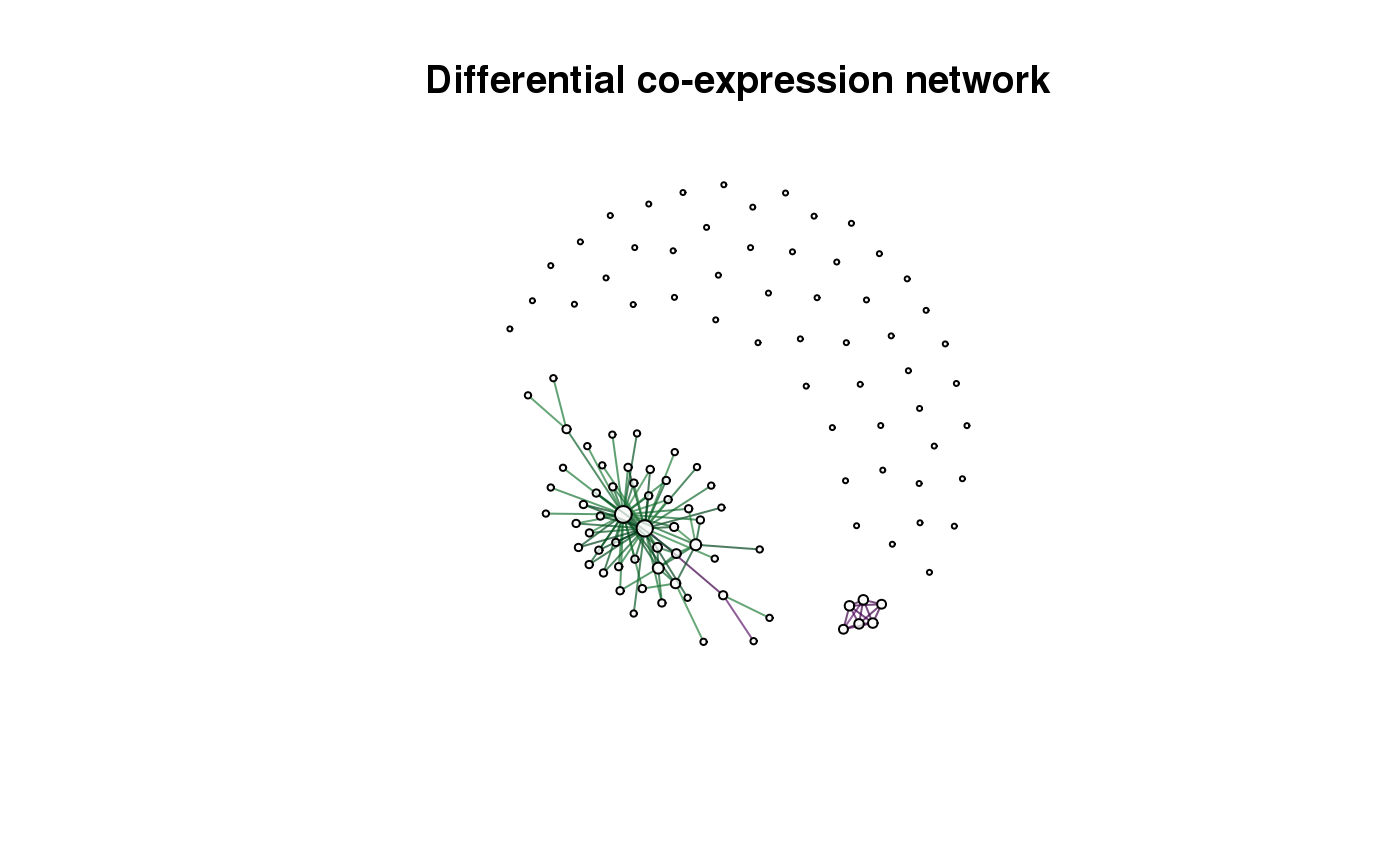
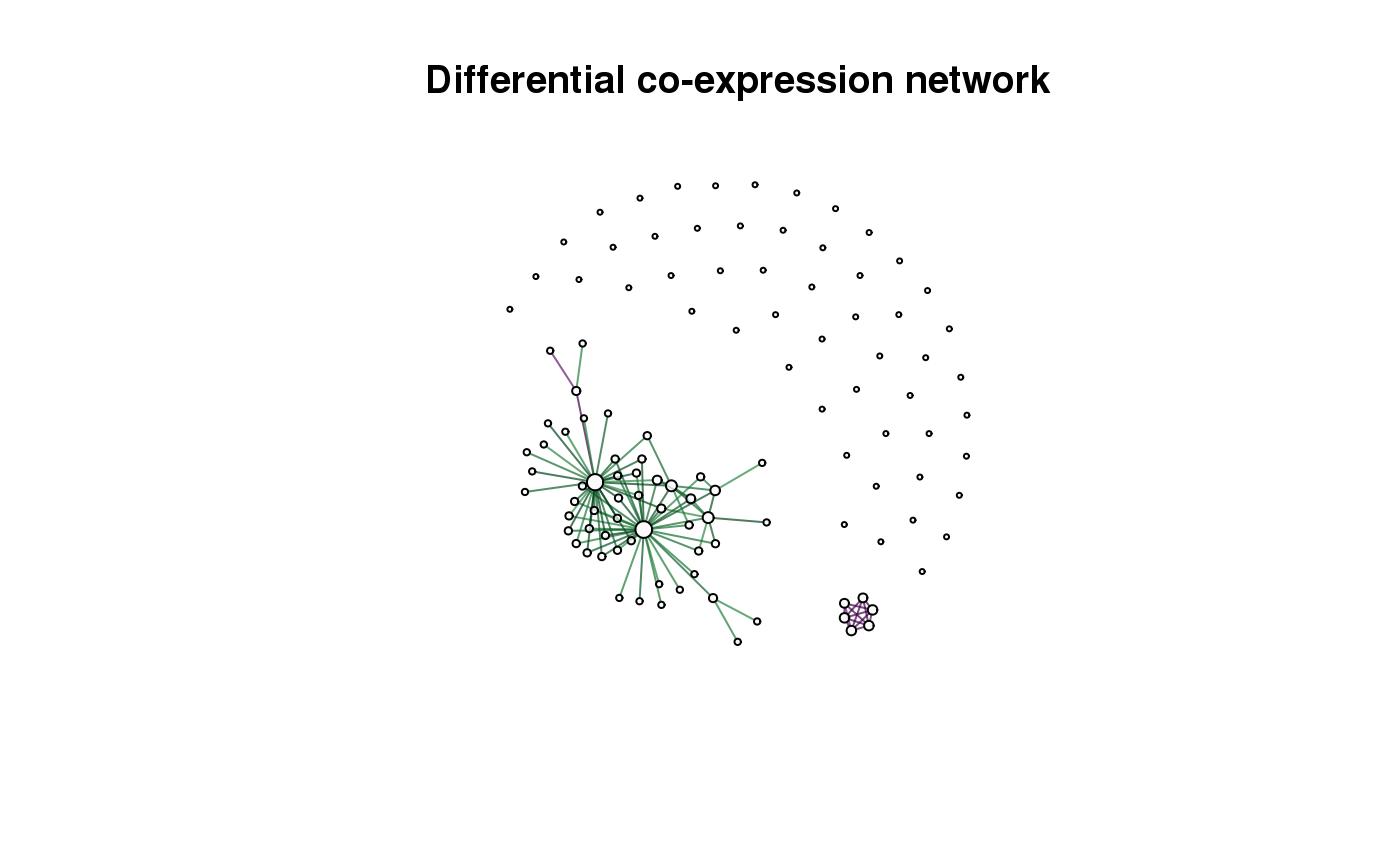
updated readme file

Changed region(s): [[0.3686, 0.437, 0.5529, 0.7491], [0.5836, 0.6867, 0.645, 0.7491]]

diff --git a/README.md b/README.md
@@ -3,7 +3,7 @@
 dcanr: Differential co-expression/association network analysis
 ==============================================================
 
-Application and evaluation of methods to infer differential co-expression/associations. An evaluation framework for testing differential co-expression methods in R. Simulated expression data with differential associations is used to assess inference methods. The package provides methods to evaluate inference methods and visualise predictions. Inference methods without implementations have been added to the package along with interfaces to existing implementations to enable ease of application and evaluations.
+Methods and an evaluation framework for the inference of differential co-expression/association networks.
 
 Installation
 ------------
@@ -47,3 +47,5 @@ plot(dcnet, vertex.label = '', main = 'Differential co-expression network')
 ```
 
 ![](README-example-1.png)
+
+Edges in the differential network are coloured based on the score (negative to positive represented from purple to green respectively).
